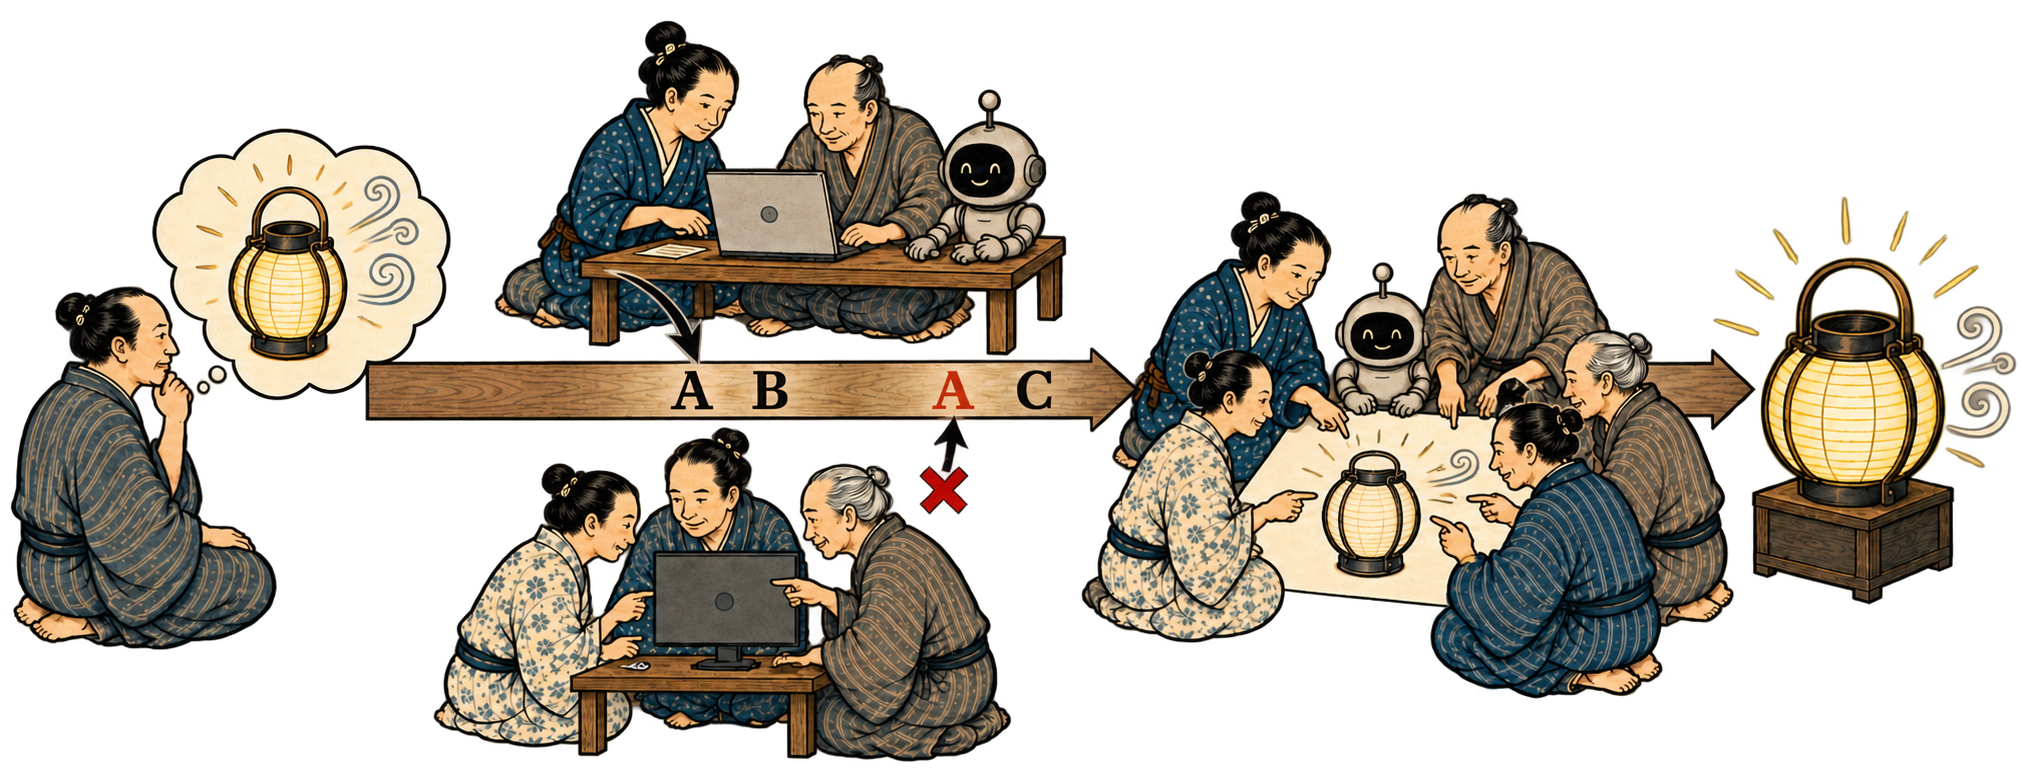
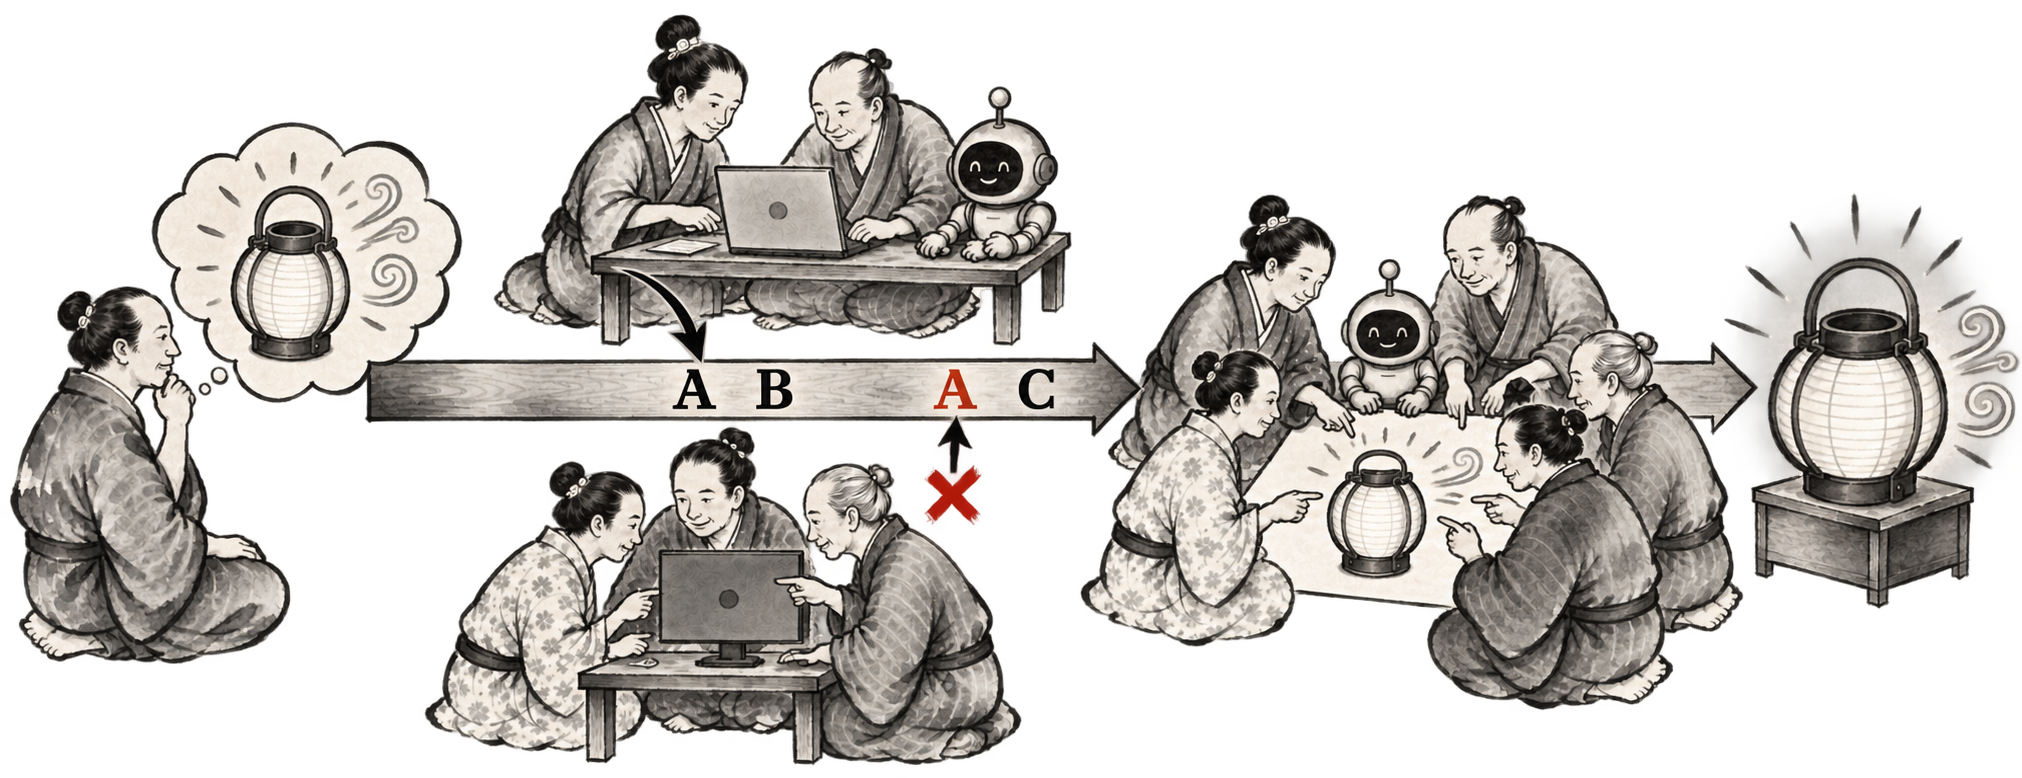
Match collaboration artwork to ink style and close the cycle

diff --git a/slides/tps-and-ai/artwork-list.md b/slides/tps-and-ai/artwork-list.md
@@ -579,22 +579,24 @@ Do not add extra Odd-e logos on cover or Thank you. The Lizard asset on
   one key piece withdrawn a little as the vermilion accent so remaining
   judgment is visible; no text; 4:3
 
-### G19. Shared product pulls collaboration (ukiyo-e panorama)
+### G19. Shared product pulls collaboration (sumi-e panorama)
 
-- **Status:** retouched 2026-10-03 with the built-in image tool —
+- **Status:** restyled 2026-10-06 with built-in imagegen —
   transparent artwork at `public/integration-coordination.png`
 - **Slide:** "Let the shared product pull collaboration"
 - **Placement:** dominant wide panorama under the title; true alpha
   background. The example and fuller explanation are in speaker notes.
   One short bilingual footer carries the message: "Integrate continuously.
   Collaborate just in time." Two small native SVG arrows connect the
-  conflict and collaboration, leaving the artwork free of long labels.
-- **Exception (medium):** the common prefix is sumi-e ink-wash. The
-  owner asked for **浮世絵** (ukiyo-e woodblock). This item **replaces**
-  the medium: bold black outlines, flat color fields, a limited
-  palette, on off-white paper. Keep the deck's vermilion accent. Do
-  **not** prepend the sumi-e prefix. Do **not** pass G1 as a style
-  reference — it would pull the scene back into wash.
+  conflict and collaboration. A third returns from the finished product
+  to the customer's need above the panorama, making the full cycle explicit.
+- **Current medium:** the common sumi-e prefix applies. G1 is the style
+  reference; the existing scene supplies the content and composition.
+  Monochrome ink and gray washes replace the colored woodblock treatment.
+  Vermilion remains on the conflicting later A and X.
+- **Previous medium (superseded):** the owner previously requested
+  **浮世絵** (ukiyo-e woodblock). Its original prompts below remain as
+  history; the 2026-10-06 style-transfer prompt governs regeneration.
 - **Exception (text):** retain only **A B** and **A C** on the shared
   trunk. The original customer callouts and long arrow captions were
   removed in the 2026-10-03 simplification. One lantern with light rays
@@ -694,7 +696,6 @@ Do not add extra Odd-e logos on cover or Thank you. The Lizard asset on
 
 ---
 
-+
 - **2026-10-03 retouch prompt — background extraction and simplification:**
 
   Retouch the supplied ukiyo-e panorama for an elegant presentation slide. Preserve its distinctive Edo workshop woodblock style, characters, black outlines, muted indigo and warm natural wood colors, and one vermilion conflict accent. Make the background genuinely transparent (alpha), including the empty spaces around and between subjects: no paper texture, no beige rectangle, no backdrop, no opaque white ground. Keep the objects filled; don't make faces or clothes transparent.
@@ -725,12 +726,41 @@ Do not add extra Odd-e logos on cover or Thank you. The Lizard asset on
 
   Do not add text or labels. No letters apart from the existing A B and A C. Do not add a paper background, gradient, vignette, shadow rectangle or white matte. True transparent PNG.
 
-- **Selected generated file:**
+- **Previous generated file (superseded):**
   `/Users/terryyin/.codex/generated_images/01a0faef-d3e4-73e1-b082-5f5307e77aa7/exec-2c41e45a-bcaf-42e8-b5b0-fbb125e277b6.png`.
   Copied into the existing project asset. RGBA, 2022 × 778; alpha spans
   0–255. The gathering contains exactly the same five humans as the two
   teams; the AI is their companion. The loop arrows are native slide SVG:
   red from conflict to collaboration, stone from collaboration to the beam.
+
+- **2026-10-06 style-transfer prompt (complete):**
+
+  > Use case: style-transfer.
+  > Asset type: dominant panoramic illustration on slide 26, "Let the shared product pull collaboration".
+  > Input image 1 is the EDIT TARGET. Its content, meaning, sequence, characters, objects, layout and relative positions are already correct and must remain unchanged.
+  > Input image 2, the crane, is a STYLE REFERENCE ONLY. Do not add a crane.
+  > Japanese ink-and-wash (sumi-e) illustration on off-white paper, with a single vermilion-red accent. No captions or new text.
+  > Completely redraw image 1's ukiyo-e woodblock rendering into the soft, expressive, brush-painted ink medium of image 2: monochrome black contours, gray washes, paper-like pigment within subjects, fading organic edges and generous transparent negative space. This is a real change in drawing medium, not merely desaturation. Remove the indigo, ochre, gold and wood-brown colored fills. Neutral gray washes give faces, robes, wood and lanterns volume. Vermilion is reserved for the same conflicting later A and X; all other objects and light rays use ink/gray.
+  >
+  > Lock this exact continuous wide composition, approximately 2.6:1, matching the existing 2022x778 canvas:
+  > Far left: one seated customer and a small pictorial thought containing ONE lantern, light rays and wind curls. The customer seeks one bright, wind-resistant product, not separate products.
+  > Upper center-left: exactly two humans at one laptop, woman on left and older man on right, with one small friendly AI companion to their right.
+  > Lower center-left: exactly three humans at a shared computer, woman in patterned pale robe on left, younger man in middle, gray-haired older man on right.
+  > Between the two teams: the same single horizontal shared-mainline wooden beam continues left to right. Earlier A B in black, later A C with only the later A red and C black. Preserve these FOUR existing Latin capitals, large and clear. Preserve the short upper integration arrow landing at earlier A B and the short lower arrow stopped at the red X before later A C. No other letters or symbols.
+  > Center-right: exactly those same FIVE humans gathered informally around one shared lantern sketch, plus the same AI companion. No sixth human or manager. Preserve their identities, robes and distinct ages across both appearances. Hands and eye lines show direct collaboration.
+  > Far right: ONE completed cohesive lantern with light rays and exterior wind curls, on the same simple low stand, indicating both needs met.
+  > Keep all silhouettes, faces, computers, beam letters, X and lanterns fully visible, with essentially the SAME POSITIONS and SCALE as image 1. Do not introduce extra elements, different metaphor, boxed panels, callouts, background scenery, words or logos.
+  >
+  > IMPORTANT: do not paint any outer cycle/return arrow or the two small conflict-to-gathering loop arrows. Those arrows will be precisely overlaid as editable paths on the slide, including a clear return from finished lantern to the original customer need. Keep the upper rim/margin clear for that cycle. Preserve only the existing short team-to-mainline arrows and the mainline beam arrow. Genuine transparent background and alpha everywhere around/between subjects; no opaque paper rectangle, white matte, solid backdrop, halo, or new color.
+
+- **Current selected generated file:**
+  `exec-9027b49c-4fca-462a-a148-986bd459864d.png`, copied to
+  `public/integration-coordination.png`. RGBA, 2022 × 778, alpha 0–255.
[1 lines of base64/hex data omitted]
+  The previous woodblock asset is recoverable at revision `3fff539`.
+  All five team members, the AI companion, integration sequence and lantern
+  meanings are retained. The outer cycle is an editable slide SVG, so its
+  endpoint and direction stay crisp and distinct from the conflict stop.
 
 ---
 

diff --git a/slides/tps-and-ai/slides.md b/slides/tps-and-ai/slides.md
@@ -1345,10 +1345,10 @@ class: "[&>h1]:!mb-2"
 <div class="absolute left-[4%] top-[25%] w-[92%] aspect-[8/3]">
   <img
     src="/integration-coordination.png"
-    alt="One customer needs a bright, wind-resistant lantern. Two teams integrate changes into one shared product; a conflict stops a push and brings the five people together to resolve it, producing one coherent lantern."
+    alt="One customer needs a bright, wind-resistant lantern. Two teams integrate changes into one shared product; a conflict stops a push and brings the five people together to resolve it, producing one coherent lantern. A return arrow leads from that result back to the customer need, continuing the cycle."
     class="h-full w-full object-contain"
   />
-  <svg viewBox="0 0 2048 768" class="absolute inset-0 h-full w-full pointer-events-none" aria-hidden="true">
+  <svg viewBox="0 0 2048 768" class="absolute inset-0 h-full w-full pointer-events-none" style="overflow: visible" aria-hidden="true">
     <defs>
       <marker id="collaboration-pull-arrow" markerWidth="8" markerHeight="8" refX="6" refY="4" orient="auto">
         <path d="M0,0 L8,4 L0,8" fill="none" stroke="#b33a2b" stroke-width="1.6" />
@@ -1356,9 +1356,13 @@ class: "[&>h1]:!mb-2"
       <marker id="collaboration-return-arrow" markerWidth="8" markerHeight="8" refX="6" refY="4" orient="auto">
         <path d="M0,0 L8,4 L0,8" fill="none" stroke="#78716c" stroke-width="1.6" />
       </marker>
+      <marker id="collaboration-cycle-arrow" markerWidth="9" markerHeight="9" refX="7" refY="4.5" orient="auto">
+        <path d="M1,1 L7,4.5 L1,8" fill="none" stroke="#78716c" stroke-width="1.5" />
+      </marker>
     </defs>
     <path d="M 982,483 C 1035,483 1030,430 1095,448" fill="none" stroke="#b33a2b" stroke-width="4" marker-end="url(#collaboration-pull-arrow)" />
     <path d="M 1086,604 C 1010,635 1020,497 1035,430" fill="none" stroke="#78716c" stroke-width="3.5" marker-end="url(#collaboration-return-arrow)" />
+    <path d="M 1880,175 C 1845,-10 1440,-10 1130,-10 H 460 C 300,-10 245,14 260,106" fill="none" stroke="#78716c" stroke-width="4.5" stroke-linecap="round" marker-end="url(#collaboration-cycle-arrow)" />
   </svg>
 </div>
 
@@ -1369,7 +1373,7 @@ class: "[&>h1]:!mb-2"
 
 <!--
 Claim 8. Nemawashi (Claim 9) and the Ebata teaching (Claim 14) support
-these JIT beats. G19 (ukiyo-e panorama) is the integration–coordination
+these JIT beats. G19 (sumi-e panorama) is the integration–coordination
 overlap.
 
 Walk the picture left to right: one customer needs one lantern that is
@@ -1378,6 +1382,8 @@ The upper pair integrates black A B first; the lower mob's later A C
 conflicts at A. The red stop calls the relevant five people together.
 They resolve the dependency directly and integrate one coherent result.
 The red arrow pulls collaboration; the stone return arrow closes integration.
+The outer return leads from the useful result to the customer: use and the
+next need begin another cycle. It does not automatically invent a new demand.
 The customer need is the source of pull, not a manager allocating parts.
 
 Technical excellence enables the whole product group to integrate
